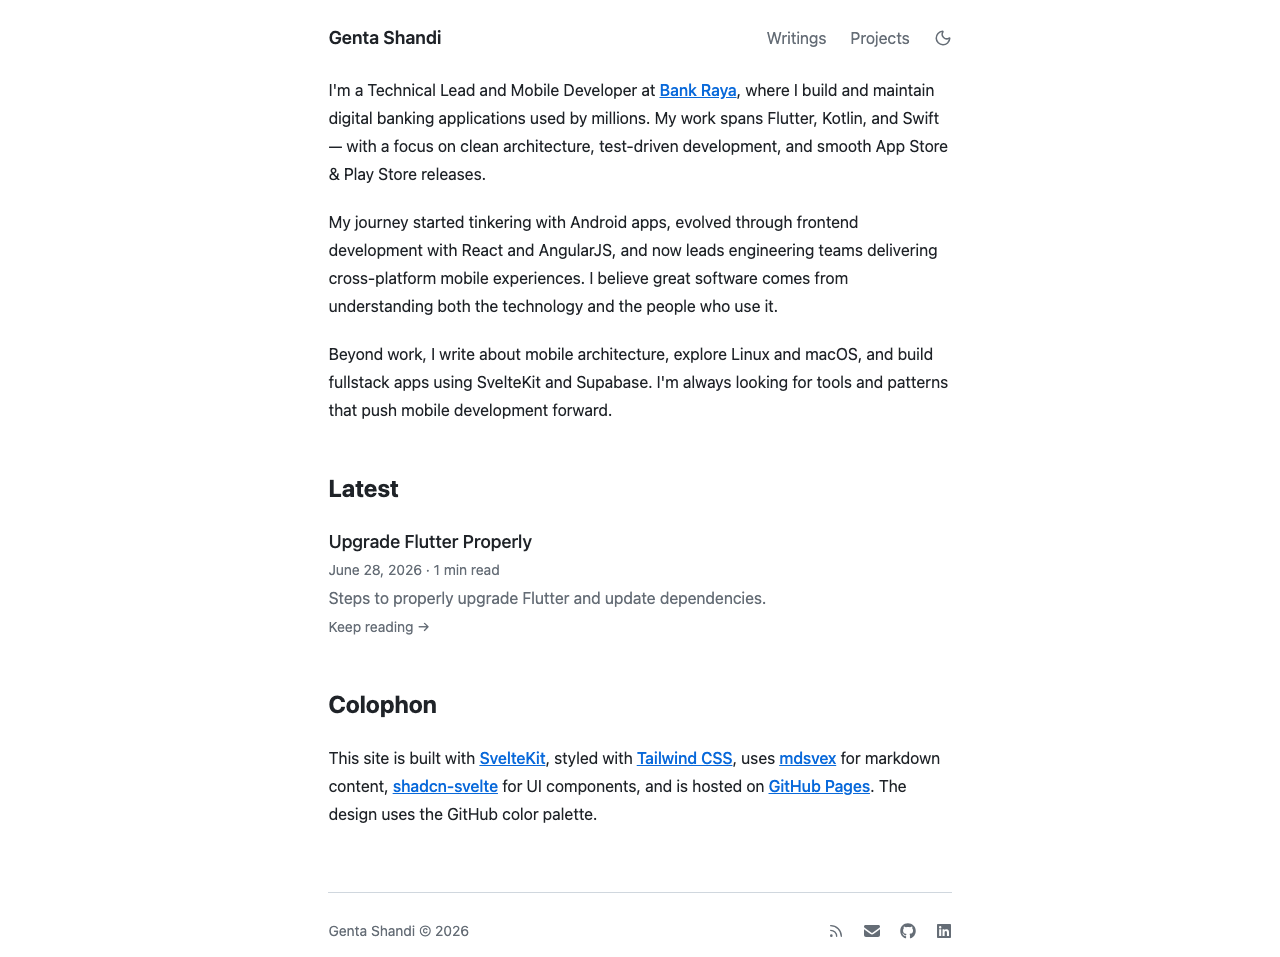
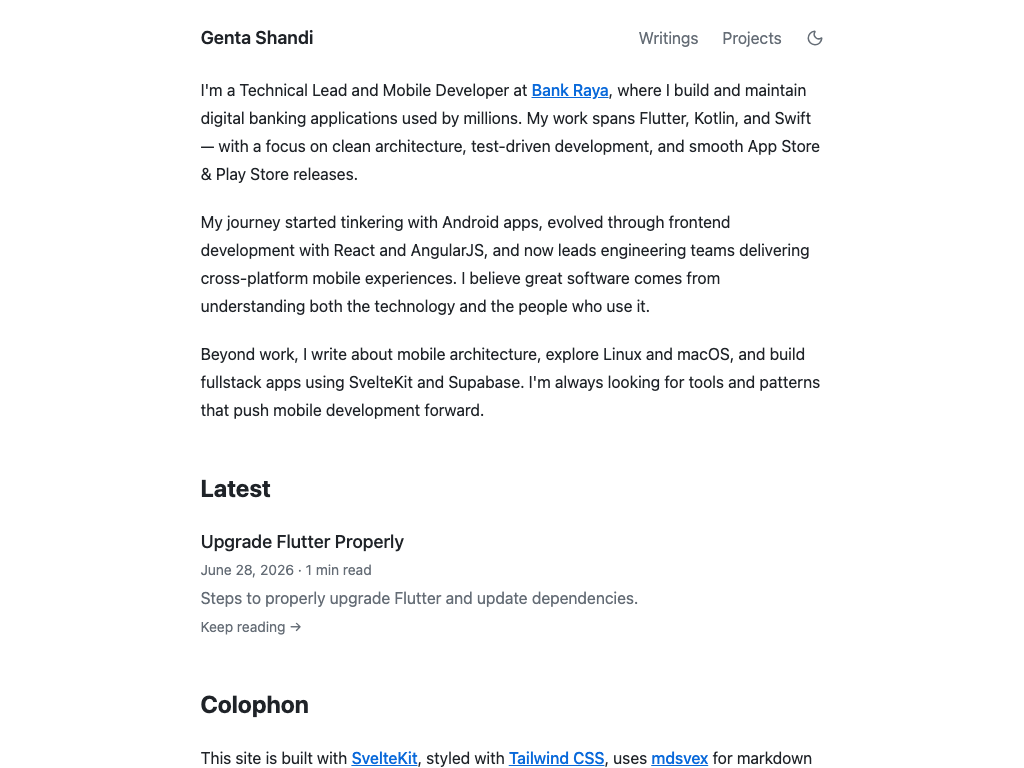
fix: improve project image display with object-contain and better screenshot

Changed region(s): [[0.1875, 0.0312, 0.8125, 0.875], [0.1875, 0.9688, 0.7812, 1.0], [0.1875, 0.9062, 0.3125, 0.9375]]

diff --git a/src/routes/projects/+page.svelte b/src/routes/projects/+page.svelte
@@ -57,12 +57,12 @@
 						href={project.url}
 						target="_blank"
 						rel="noopener noreferrer"
-						class="block -mx-5 -mt-5 sm:-mx-6 sm:-mt-6 overflow-hidden rounded-t-lg"
+						class="block -mx-5 -mt-5 sm:-mx-6 sm:-mt-6 overflow-hidden rounded-t-lg bg-muted/30"
 					>
 						<img
 							src={project.image}
 							alt="{project.name} screenshot"
-							class="w-full aspect-video object-cover border-border border-b"
+							class="w-full aspect-[16/10] object-contain"
 						/>
 					</a>
 				{/if}
